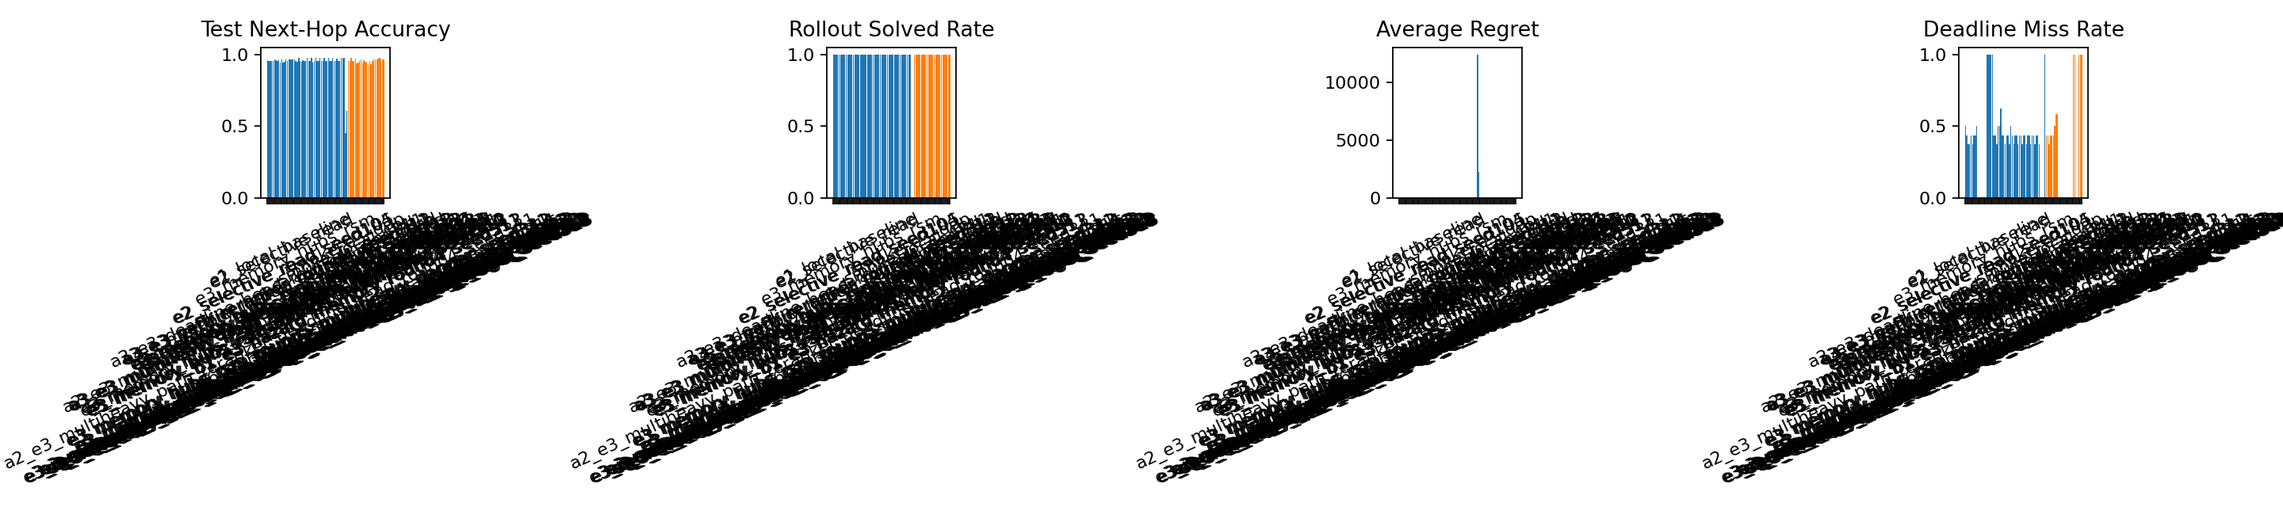
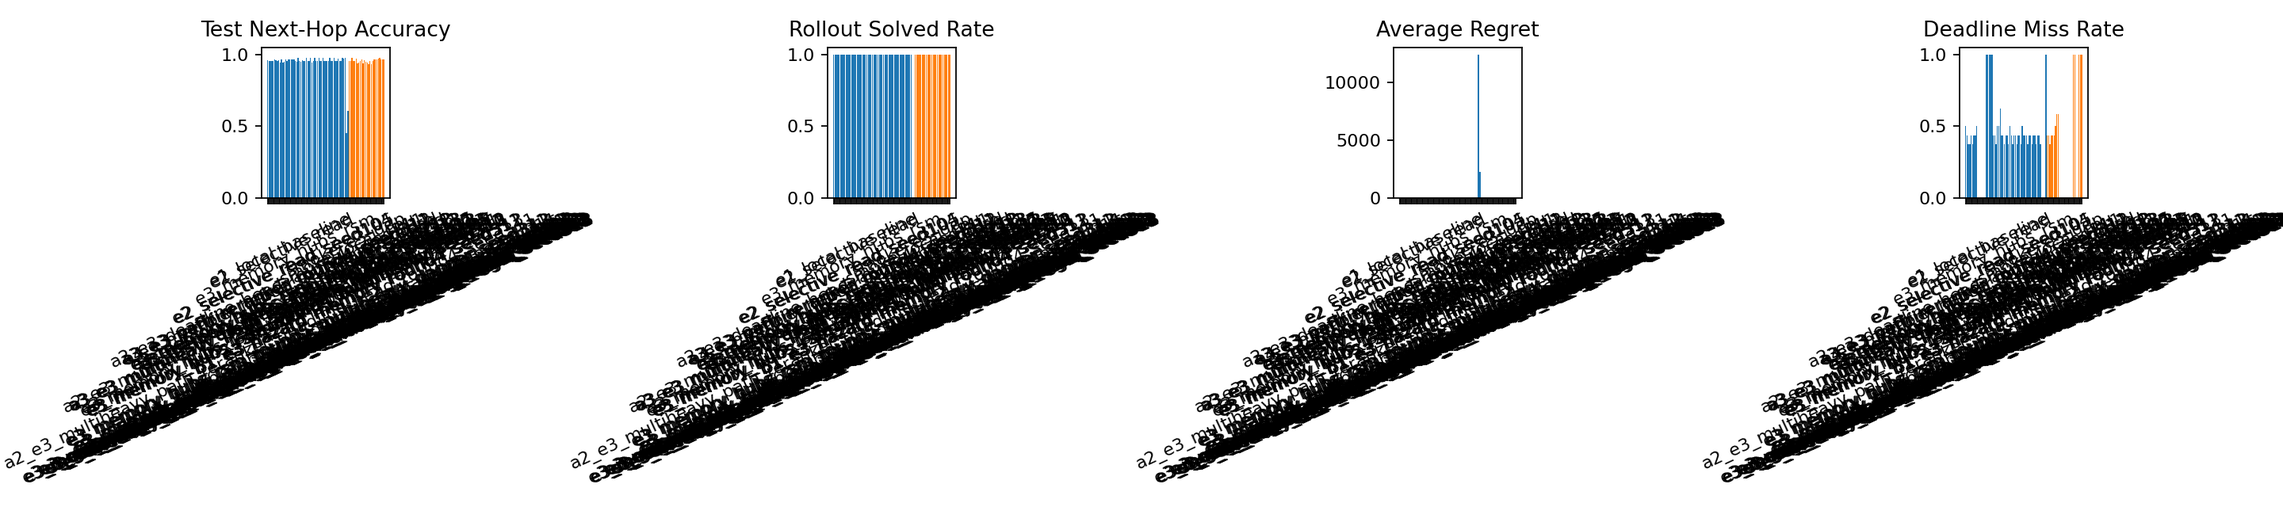
Reject supervised multiheavy path-head coupling

diff --git a/src/gnn3/train/trainer.py b/src/gnn3/train/trainer.py
@@ -142,6 +142,7 @@ def _train_one_epoch(
         "value_loss": 0.0,
         "route_loss": 0.0,
         "selection_soft_target_loss": 0.0,
+        "path_soft_target_loss": 0.0,
         "selection_pairwise_loss": 0.0,
         "selection_feasible_target_loss": 0.0,
         "on_time_loss": 0.0,
@@ -167,6 +168,9 @@ def _train_one_epoch(
                 selection_soft_target_weight=config.train.selection_soft_target_weight,
                 selection_soft_target_temperature=config.train.selection_soft_target_temperature,
                 selection_soft_target_on_time_bonus=config.train.selection_soft_target_on_time_bonus,
+                path_soft_target_weight=config.train.path_soft_target_weight,
+                path_soft_target_temperature=config.train.path_soft_target_temperature,
+                path_soft_target_on_time_bonus=config.train.path_soft_target_on_time_bonus,
                 selection_pairwise_weight=config.train.selection_pairwise_weight,
                 selection_pairwise_temperature=config.train.selection_pairwise_temperature,
                 selection_pairwise_on_time_bonus=config.train.selection_pairwise_on_time_bonus,
@@ -201,6 +205,9 @@ def evaluate_decision_dataset(
     selection_soft_target_weight: float,
     selection_soft_target_temperature: float,
     selection_soft_target_on_time_bonus: float,
+    path_soft_target_weight: float,
+    path_soft_target_temperature: float,
+    path_soft_target_on_time_bonus: float,
     selection_pairwise_weight: float,
     selection_pairwise_temperature: float,
     selection_pairwise_on_time_bonus: float,
@@ -220,6 +227,7 @@ def evaluate_decision_dataset(
         "value_loss": 0.0,
         "route_loss": 0.0,
         "selection_soft_target_loss": 0.0,
+        "path_soft_target_loss": 0.0,
         "selection_pairwise_loss": 0.0,
         "selection_feasible_target_loss": 0.0,
         "on_time_loss": 0.0,
@@ -249,6 +257,9 @@ def evaluate_decision_dataset(
             selection_soft_target_weight=selection_soft_target_weight,
             selection_soft_target_temperature=selection_soft_target_temperature,
             selection_soft_target_on_time_bonus=selection_soft_target_on_time_bonus,
+            path_soft_target_weight=path_soft_target_weight,
+            path_soft_target_temperature=path_soft_target_temperature,
+            path_soft_target_on_time_bonus=path_soft_target_on_time_bonus,
             selection_pairwise_weight=selection_pairwise_weight,
             selection_pairwise_temperature=selection_pairwise_temperature,
             selection_pairwise_on_time_bonus=selection_pairwise_on_time_bonus,
@@ -502,6 +513,9 @@ def train_experiment(config: ExperimentConfig) -> dict[str, Any] | None:
                 selection_soft_target_weight=config.train.selection_soft_target_weight,
                 selection_soft_target_temperature=config.train.selection_soft_target_temperature,
                 selection_soft_target_on_time_bonus=config.train.selection_soft_target_on_time_bonus,
+                path_soft_target_weight=config.train.path_soft_target_weight,
+                path_soft_target_temperature=config.train.path_soft_target_temperature,
+                path_soft_target_on_time_bonus=config.train.path_soft_target_on_time_bonus,
                 selection_pairwise_weight=config.train.selection_pairwise_weight,
                 selection_pairwise_temperature=config.train.selection_pairwise_temperature,
                 selection_pairwise_on_time_bonus=config.train.selection_pairwise_on_time_bonus,
@@ -629,6 +643,9 @@ def train_experiment(config: ExperimentConfig) -> dict[str, Any] | None:
                     selection_soft_target_weight=config.train.selection_soft_target_weight,
                     selection_soft_target_temperature=config.train.selection_soft_target_temperature,
                     selection_soft_target_on_time_bonus=config.train.selection_soft_target_on_time_bonus,
+                    path_soft_target_weight=config.train.path_soft_target_weight,
+                    path_soft_target_temperature=config.train.path_soft_target_temperature,
+                    path_soft_target_on_time_bonus=config.train.path_soft_target_on_time_bonus,
                     selection_pairwise_weight=config.train.selection_pairwise_weight,
                     selection_pairwise_temperature=config.train.selection_pairwise_temperature,
                     selection_pairwise_on_time_bonus=config.train.selection_pairwise_on_time_bonus,
@@ -714,21 +731,24 @@ def train_experiment(config: ExperimentConfig) -> dict[str, Any] | None:
         route_weight=config.train.route_weight,
         deadline_bce_weight=config.train.deadline_bce_weight,
         slack_loss_weight=config.train.slack_loss_weight,
-                quantile_loss_weight=config.train.quantile_loss_weight,
-                selection_soft_target_weight=config.train.selection_soft_target_weight,
-                selection_soft_target_temperature=config.train.selection_soft_target_temperature,
-                selection_soft_target_on_time_bonus=config.train.selection_soft_target_on_time_bonus,
-                selection_pairwise_weight=config.train.selection_pairwise_weight,
-                selection_pairwise_temperature=config.train.selection_pairwise_temperature,
-                selection_pairwise_on_time_bonus=config.train.selection_pairwise_on_time_bonus,
-                selection_pairwise_slack_bonus=config.train.selection_pairwise_slack_bonus,
-                selection_pairwise_margin=config.train.selection_pairwise_margin,
-                selection_feasible_target_weight=config.train.selection_feasible_target_weight,
-                selection_slack_critical_weight=config.train.selection_slack_critical_weight,
-                selection_slack_critical_scale=config.train.selection_slack_critical_scale,
-                quantiles=config.model.quantile_levels,
-                verifier_aux_last_k_steps=config.model.verifier_aux_last_k_steps,
-            )
+        quantile_loss_weight=config.train.quantile_loss_weight,
+        selection_soft_target_weight=config.train.selection_soft_target_weight,
+        selection_soft_target_temperature=config.train.selection_soft_target_temperature,
+        selection_soft_target_on_time_bonus=config.train.selection_soft_target_on_time_bonus,
+        path_soft_target_weight=config.train.path_soft_target_weight,
+        path_soft_target_temperature=config.train.path_soft_target_temperature,
+        path_soft_target_on_time_bonus=config.train.path_soft_target_on_time_bonus,
+        selection_pairwise_weight=config.train.selection_pairwise_weight,
+        selection_pairwise_temperature=config.train.selection_pairwise_temperature,
+        selection_pairwise_on_time_bonus=config.train.selection_pairwise_on_time_bonus,
+        selection_pairwise_slack_bonus=config.train.selection_pairwise_slack_bonus,
+        selection_pairwise_margin=config.train.selection_pairwise_margin,
+        selection_feasible_target_weight=config.train.selection_feasible_target_weight,
+        selection_slack_critical_weight=config.train.selection_slack_critical_weight,
+        selection_slack_critical_scale=config.train.selection_slack_critical_scale,
+        quantiles=config.model.quantile_levels,
+        verifier_aux_last_k_steps=config.model.verifier_aux_last_k_steps,
+    )
     test_rollout = evaluate_rollouts(
         eval_model,
         test_dataset.episodes[: config.train.rollout_eval_episodes],

diff --git a/src/gnn3/models/packet_mamba.py b/src/gnn3/models/packet_mamba.py
@@ -865,6 +865,27 @@ def _selection_soft_target_loss(
     return -(target_probs * log_probs).sum(dim=-1).mean()
 
 
+def _path_soft_target_loss(
+    *,
+    path_scores: torch.Tensor,
+    batch: dict[str, torch.Tensor],
+    temperature: float,
+    on_time_bonus: float,
+) -> torch.Tensor:
+    valid_mask = batch["candidate_mask"] & batch["node_mask"]
+    if not valid_mask.any():
+        return path_scores.new_tensor(0.0)
+    temperature = max(float(temperature), 1e-3)
+    target_logits = -batch["candidate_cost_to_go"] / temperature
+    if on_time_bonus != 0.0:
+        target_logits = target_logits + on_time_bonus * batch["candidate_on_time"]
+    target_logits = target_logits.masked_fill(~valid_mask, float("-inf"))
+    target_probs = torch.softmax(target_logits, dim=-1)
+    masked_path_scores = path_scores.masked_fill(~valid_mask, -1e9)
+    log_probs = torch.log_softmax(masked_path_scores, dim=-1)
+    return -(target_probs * log_probs).sum(dim=-1).mean()
+
+
 def _selection_pairwise_ranking_loss(
     *,
     selection_scores: torch.Tensor,
@@ -926,6 +947,9 @@ def compute_losses(
     selection_soft_target_weight: float = 0.0,
     selection_soft_target_temperature: float = 1.0,
     selection_soft_target_on_time_bonus: float = 0.0,
+    path_soft_target_weight: float = 0.0,
+    path_soft_target_temperature: float = 1.0,
+    path_soft_target_on_time_bonus: float = 0.0,
     selection_pairwise_weight: float = 0.0,
     selection_pairwise_temperature: float = 1.0,
     selection_pairwise_on_time_bonus: float = 0.0,
@@ -966,6 +990,7 @@ def compute_losses(
     route_targets = batch["route_relevance"][batch["node_mask"]]
     route_loss = F.binary_cross_entropy_with_logits(route_logits, route_targets)
     selection_soft_target_loss = output["selection_scores"].new_tensor(0.0)
+    path_soft_target_loss = output["selection_scores"].new_tensor(0.0)
     selection_pairwise_loss = output["selection_scores"].new_tensor(0.0)
     on_time_loss = output["selection_scores"].new_tensor(0.0)
     slack_loss = output["selection_scores"].new_tensor(0.0)
@@ -976,6 +1001,13 @@ def compute_losses(
             batch=batch,
             temperature=selection_soft_target_temperature,
             on_time_bonus=selection_soft_target_on_time_bonus,
+        )
+    if path_soft_target_weight > 0.0 and output.get("path_scores") is not None:
+        path_soft_target_loss = _path_soft_target_loss(
+            path_scores=output["path_scores"],
+            batch=batch,
+            temperature=path_soft_target_temperature,
+            on_time_bonus=path_soft_target_on_time_bonus,
         )
     if selection_pairwise_weight > 0.0:
         selection_pairwise_loss = _selection_pairwise_ranking_loss(
@@ -1026,6 +1058,7 @@ def compute_losses(
         + value_weight * value_loss
         + route_weight * route_loss
         + selection_soft_target_weight * selection_soft_target_loss
+        + path_soft_target_weight * path_soft_target_loss
         + selection_pairwise_weight * selection_pairwise_loss
         + selection_feasible_target_weight * feasible_target_loss
         + deadline_bce_weight * on_time_loss
@@ -1041,6 +1074,7 @@ def compute_losses(
         "value_loss": value_loss.detach(),
         "route_loss": route_loss.detach(),
         "selection_soft_target_loss": selection_soft_target_loss.detach(),
+        "path_soft_target_loss": path_soft_target_loss.detach(),
         "selection_pairwise_loss": selection_pairwise_loss.detach(),
         "selection_feasible_target_loss": feasible_target_loss.detach(),
         "on_time_loss": on_time_loss.detach(),

diff --git a/tests/test_loss_coupling.py b/tests/test_loss_coupling.py
@@ -27,6 +27,7 @@ def _batch_with_slack(candidate_slack: torch.Tensor) -> dict[str, torch.Tensor]:
 def _output(selection_scores: torch.Tensor) -> dict[str, torch.Tensor]:
     return {
         "selection_scores": selection_scores,
+        "path_scores": selection_scores.clone(),
         "values": torch.tensor([1.0], dtype=torch.float32),
         "route_logits": torch.tensor([[2.0, 2.0, -2.0]], dtype=torch.float32),
         "candidate_on_time_logits": None,
@@ -83,6 +84,28 @@ def test_selection_pairwise_loss_prefers_feasible_low_cost_rankings() -> None:
         selection_pairwise_margin=0.5,
     )
     assert float(better["selection_pairwise_loss"]) < float(worse["selection_pairwise_loss"])
+    assert float(better["loss"]) < float(worse["loss"])
+
+
+def test_path_soft_target_loss_prefers_feasible_low_cost_paths() -> None:
+    batch = _batch()
+    better = compute_losses(
+        _output(torch.tensor([[3.0, 2.0, -1.0]], dtype=torch.float32)),
+        batch,
+        final_step_only=True,
+        path_soft_target_weight=1.0,
+        path_soft_target_temperature=0.5,
+        path_soft_target_on_time_bonus=1.0,
+    )
+    worse = compute_losses(
+        _output(torch.tensor([[-1.0, 0.0, 3.0]], dtype=torch.float32)),
+        batch,
+        final_step_only=True,
+        path_soft_target_weight=1.0,
+        path_soft_target_temperature=0.5,
+        path_soft_target_on_time_bonus=1.0,
+    )
+    assert float(better["path_soft_target_loss"]) < float(worse["path_soft_target_loss"])
     assert float(better["loss"]) < float(worse["loss"])
 
 

diff --git a/scripts/plot_round5_results.py b/scripts/plot_round5_results.py
@@ -180,6 +180,16 @@ def main() -> None:
     dagger.to_csv(PLOTS / "round5_multiheavy_dagger_vs_multiheavy.csv", index=False)
     _plot_compare(dagger, "round5_multiheavy_dagger_vs_multiheavy.png", "DAgger")
 
+    pathhead = _summary_frame(
+        [
+            (311, "e3_memory_hubs_rsm_round4_multiheavy_seed311", "e3_memory_hubs_rsm_round5_multiheavy_pathhead_seed311"),
+            (312, "e3_memory_hubs_rsm_round4_multiheavy_seed312", "e3_memory_hubs_rsm_round5_multiheavy_pathhead_seed312"),
+        ],
+        "PathHead",
+    )
+    pathhead.to_csv(PLOTS / "round5_multiheavy_pathhead_vs_multiheavy.csv", index=False)
+    _plot_compare(pathhead, "round5_multiheavy_pathhead_vs_multiheavy.png", "PathHead")
+
 
 if __name__ == "__main__":
     main()

diff --git a/src/gnn3/train/config.py b/src/gnn3/train/config.py
@@ -54,6 +54,9 @@ class TrainConfig:
     selection_soft_target_weight: float = 0.0
     selection_soft_target_temperature: float = 1.0
     selection_soft_target_on_time_bonus: float = 0.0
+    path_soft_target_weight: float = 0.0
+    path_soft_target_temperature: float = 1.0
+    path_soft_target_on_time_bonus: float = 0.0
     selection_pairwise_weight: float = 0.0
     selection_pairwise_temperature: float = 1.0
     selection_pairwise_on_time_bonus: float = 0.0

diff --git a/reports/continuation_report_round5.md b/reports/continuation_report_round5.md
@@ -2,7 +2,7 @@
 
 ## Scope
 
-This pass tested nine bounded non-reranker exploit changes on top of the robust plain `multiheavy` recipe:
+This pass tested ten bounded exploit changes on top of the robust plain `multiheavy` recipe: nine non-reranker tweaks plus one integrated candidate-path scout that was killed after two seeds.
 
 1. risk-biased checkpoint selection
 2. tighter training-only oracle-calibrated deadlines with fixed validation and test manifests
@@ -13,6 +13,7 @@ This pass tested nine bounded non-reranker exploit changes on top of the robust 
 7. feasible-first hard target supervision when an on-time candidate exists
 8. slack-critical weighting on the main next-hop CE
 9. bounded DAgger-style state-refresh finetuning on oracle-relabeled model-visited train states
+10. supervised traffic-gated candidate-path scoring on the existing integrated path head
 
 Key artifacts:
 
@@ -34,6 +35,8 @@ Key artifacts:
 - [round5_multiheavy_slack_weight_vs_multiheavy.png](/home/catid/gnn3/reports/plots/round5_multiheavy_slack_weight_vs_multiheavy.png)
 - [round5_multiheavy_dagger_vs_multiheavy.csv](/home/catid/gnn3/reports/plots/round5_multiheavy_dagger_vs_multiheavy.csv)
 - [round5_multiheavy_dagger_vs_multiheavy.png](/home/catid/gnn3/reports/plots/round5_multiheavy_dagger_vs_multiheavy.png)
+- [round5_multiheavy_pathhead_vs_multiheavy.csv](/home/catid/gnn3/reports/plots/round5_multiheavy_pathhead_vs_multiheavy.csv)
+- [round5_multiheavy_pathhead_vs_multiheavy.png](/home/catid/gnn3/reports/plots/round5_multiheavy_pathhead_vs_multiheavy.png)
 - [experiment_summary.csv](/home/catid/gnn3/reports/plots/experiment_summary.csv)
 
 Implementation changes:
@@ -48,6 +51,7 @@ Implementation changes:
 - bounded DAgger refresh knobs in [config.py](/home/catid/gnn3/src/gnn3/train/config.py)
 - oracle relabel collection for model-visited train states in [rollout.py](/home/catid/gnn3/src/gnn3/eval/rollout.py)
 - bounded DAgger finetune loop in [trainer.py](/home/catid/gnn3/src/gnn3/train/trainer.py)
+- supervised path-head soft-target loss in [packet_mamba.py](/home/catid/gnn3/src/gnn3/models/packet_mamba.py)
 - matched round-five configs in [e3_memory_hubs_rsm_round5_multiheavy_tail_select_seed311.yaml](/home/catid/gnn3/configs/experiments/e3_memory_hubs_rsm_round5_multiheavy_tail_select_seed311.yaml), [e3_memory_hubs_rsm_round5_multiheavy_tail_select_seed312.yaml](/home/catid/gnn3/configs/experiments/e3_memory_hubs_rsm_round5_multiheavy_tail_select_seed312.yaml), and [e3_memory_hubs_rsm_round5_multiheavy_tail_select_seed313.yaml](/home/catid/gnn3/configs/experiments/e3_memory_hubs_rsm_round5_multiheavy_tail_select_seed313.yaml)
 - matched tighter-train configs in [e3_memory_hubs_rsm_round5_multiheavy_tighttrain_seed311.yaml](/home/catid/gnn3/configs/experiments/e3_memory_hubs_rsm_round5_multiheavy_tighttrain_seed311.yaml), [e3_memory_hubs_rsm_round5_multiheavy_tighttrain_seed312.yaml](/home/catid/gnn3/configs/experiments/e3_memory_hubs_rsm_round5_multiheavy_tighttrain_seed312.yaml), and [e3_memory_hubs_rsm_round5_multiheavy_tighttrain_seed313.yaml](/home/catid/gnn3/configs/experiments/e3_memory_hubs_rsm_round5_multiheavy_tighttrain_seed313.yaml)
 - matched packets6-train configs in [e3_memory_hubs_rsm_round5_multiheavy_packets6_train_seed311.yaml](/home/catid/gnn3/configs/experiments/e3_memory_hubs_rsm_round5_multiheavy_packets6_train_seed311.yaml), [e3_memory_hubs_rsm_round5_multiheavy_packets6_train_seed312.yaml](/home/catid/gnn3/configs/experiments/e3_memory_hubs_rsm_round5_multiheavy_packets6_train_seed312.yaml), and [e3_memory_hubs_rsm_round5_multiheavy_packets6_train_seed313.yaml](/home/catid/gnn3/configs/experiments/e3_memory_hubs_rsm_round5_multiheavy_packets6_train_seed313.yaml)
@@ -57,10 +61,11 @@ Implementation changes:
 - matched feasible-target configs in [e3_memory_hubs_rsm_round5_multiheavy_feasible_target_seed311.yaml](/home/catid/gnn3/configs/experiments/e3_memory_hubs_rsm_round5_multiheavy_feasible_target_seed311.yaml), [e3_memory_hubs_rsm_round5_multiheavy_feasible_target_seed312.yaml](/home/catid/gnn3/configs/experiments/e3_memory_hubs_rsm_round5_multiheavy_feasible_target_seed312.yaml), and [e3_memory_hubs_rsm_round5_multiheavy_feasible_target_seed313.yaml](/home/catid/gnn3/configs/experiments/e3_memory_hubs_rsm_round5_multiheavy_feasible_target_seed313.yaml)
 - matched slack-weight configs in [e3_memory_hubs_rsm_round5_multiheavy_slack_weight_seed311.yaml](/home/catid/gnn3/configs/experiments/e3_memory_hubs_rsm_round5_multiheavy_slack_weight_seed311.yaml), [e3_memory_hubs_rsm_round5_multiheavy_slack_weight_seed312.yaml](/home/catid/gnn3/configs/experiments/e3_memory_hubs_rsm_round5_multiheavy_slack_weight_seed312.yaml), and [e3_memory_hubs_rsm_round5_multiheavy_slack_weight_seed313.yaml](/home/catid/gnn3/configs/experiments/e3_memory_hubs_rsm_round5_multiheavy_slack_weight_seed313.yaml)
 - matched DAgger-refresh configs in [e3_memory_hubs_rsm_round5_multiheavy_dagger_seed311.yaml](/home/catid/gnn3/configs/experiments/e3_memory_hubs_rsm_round5_multiheavy_dagger_seed311.yaml), [e3_memory_hubs_rsm_round5_multiheavy_dagger_seed312.yaml](/home/catid/gnn3/configs/experiments/e3_memory_hubs_rsm_round5_multiheavy_dagger_seed312.yaml), and [e3_memory_hubs_rsm_round5_multiheavy_dagger_seed313.yaml](/home/catid/gnn3/configs/experiments/e3_memory_hubs_rsm_round5_multiheavy_dagger_seed313.yaml)
+- killed-early path-head scout configs in [e3_memory_hubs_rsm_round5_multiheavy_pathhead_seed311.yaml](/home/catid/gnn3/configs/experiments/e3_memory_hubs_rsm_round5_multiheavy_pathhead_seed311.yaml) and [e3_memory_hubs_rsm_round5_multiheavy_pathhead_seed312.yaml](/home/catid/gnn3/configs/experiments/e3_memory_hubs_rsm_round5_multiheavy_pathhead_seed312.yaml)
 - selection regression tests in [test_trainer_selection.py](/home/catid/gnn3/tests/test_trainer_selection.py)
 - split-override regression coverage in [test_config_split_overrides.py](/home/catid/gnn3/tests/test_config_split_overrides.py)
 - critical-sampling and DAgger-refresh regression coverage in [test_train_sampling.py](/home/catid/gnn3/tests/test_train_sampling.py)
-- soft-target loss regression coverage in [test_loss_coupling.py](/home/catid/gnn3/tests/test_loss_coupling.py)
+- soft-target and path-head loss regression coverage in [test_loss_coupling.py](/home/catid/gnn3/tests/test_loss_coupling.py)
 
 ## Matched Result
 
@@ -314,9 +319,35 @@ What did not change:
 - no matched-seed gain appeared in regret, p95 regret, deadline miss rate, or rollout next-hop accuracy
 - the extra state-refresh supervision raised static test next-hop accuracy slightly, but that did not translate into a different rollout policy
 
+## Integrated Candidate-Path Head Scout
+
+Killed-after-two-seeds comparison against the same plain `multiheavy` baseline, using the existing traffic-gated `path_reranker_head` inside the model plus a direct soft-target loss on `path_scores`:
+
+- multiheavy mean next-hop accuracy on seeds `311/312`: `94.98%`
+- path-head mean next-hop accuracy on seeds `311/312`: `95.40%`
+- multiheavy mean rollout next-hop accuracy on seeds `311/312`: `94.85%`
+- path-head mean rollout next-hop accuracy on seeds `311/312`: `94.63%`
+- multiheavy mean regret on seeds `311/312`: `1.71`
+- path-head mean regret on seeds `311/312`: `1.80`
+- multiheavy mean p95 regret on seeds `311/312`: `5.70`
+- path-head mean p95 regret on seeds `311/312`: `6.58`
+- multiheavy mean deadline miss rate on seeds `311/312`: `43.8%`
+- path-head mean deadline miss rate on seeds `311/312`: `46.9%`
+
+What changed:
+
+- the model carried a live `path_soft_target_loss` on both seeds, around `0.61` to `0.65` at test time
+- seed `312` stayed exactly on the plain `multiheavy` held-out rollout while slightly improving static test next-hop accuracy
+- seed `311` regressed on held-out rollout: regret `1.69` vs `1.50`, p95 `7.71` vs `5.96`, miss `50.0%` vs `43.8%`
+
+What did not change:
+
+- the scout did not beat plain `multiheavy` on any matched rollout metric across the first two seeds
+- the stronger path-level supervision still did not produce a trustworthy exploit gain, so the branch was killed before seed `313`
+
 ## Decision
 
-All nine round-five exploit changes are clean negatives.
+All ten round-five exploit changes are negatives. Nine reached the full matched three-seed bar, and the integrated path-head scout was killed early after two seeds because it already trailed plain `multiheavy` on held-out rollout.
 
 Checkpoint-selection policy alone is not the next leverage point for this repo. Tightening the training-only deadline contract also is not enough on its own. Both changes moved internal training behavior, but neither changed the actual held-out rollout once the current plain `multiheavy` model had trained.
 Deadline-aware soft action targets also are not enough on their own. They changed selected checkpoints and introduced a stable auxiliary loss, but they still did not move held-out rollout quality.
@@ -325,6 +356,7 @@ Feasible-first hard-target supervision is also not enough on its own. It changed
 Slack-critical CE weighting is also not enough on its own. It emphasized deadline-sensitive decisions directly in the main loss, but the matched held-out rollout still converged back to plain `multiheavy`.
 Critical-decision oversampling is also not enough on its own. It changed train-time replay pressure much more strongly than the loss-only tweaks, but the matched held-out rollout still converged back to plain `multiheavy`.
 Bounded DAgger state refresh is also not enough on its own. It changed the supervised state distribution much more directly than the earlier train-only tweaks, but even after `1,027` oracle-relabeled model-visited refresh decisions, the matched held-out rollout still converged back to plain `multiheavy`.
+Supervised path-head coupling is also not enough on its own. It moved path-level supervision into the existing integrated candidate-path head, but the first two matched seeds still underperformed plain `multiheavy` on held-out rollout, so the branch was killed before a third seed.
 
 ## Feasible-First Oracle-Policy Note
 
@@ -342,5 +374,6 @@ Updated recommendation:
 8. Do not spend another cycle on feasible-first hard targets alone; they changed the supervised choice directly but still failed to improve the matched held-out rollout.
 9. Do not spend another cycle on slack-critical CE weighting alone; it changed decision pressure inside the main loss, but the matched held-out rollout still stayed flat.
 10. Do not spend another cycle on bounded DAgger refresh alone; it changed the supervised state distribution directly, but the matched held-out rollout still stayed flat.
-11. Do not open a separate train-only feasible-first oracle-policy branch under the current cost/deadline contract; it is equivalent to the existing oracle except for tie cases.
-12. If exploit work continues, the next lever must change the learned policy more materially than checkpoint ranking, train-distribution tightening, packet-cap widening, critical-decision oversampling, soft candidate coupling, pairwise ranking, feasible-first hard targets, slack-critical CE weighting, or bounded DAgger refresh alone.
+11. Do not spend another cycle on supervised path-head coupling alone; the first two matched seeds already trailed plain `multiheavy` on held-out rollout.
+12. Do not open a separate train-only feasible-first oracle-policy branch under the current cost/deadline contract; it is equivalent to the existing oracle except for tie cases.
+13. If exploit work continues, the next lever must change the learned policy more materially than checkpoint ranking, train-distribution tightening, packet-cap widening, critical-decision oversampling, soft candidate coupling, pairwise ranking, feasible-first hard targets, slack-critical CE weighting, bounded DAgger refresh, or supervised path-head coupling alone.

diff --git a/reports/next_best_actions.md b/reports/next_best_actions.md
@@ -15,8 +15,9 @@
 13. Do not spend another cycle on feasible-first hard targets alone. The matched three-seed feasible-target scout changed the supervised choice directly, but the held-out rollout slightly worsened overall versus plain multiheavy.
 14. Do not spend another cycle on slack-critical CE weighting alone. The matched three-seed slack-weight scout changed the main loss pressure directly, but every held-out rollout still matched plain multiheavy exactly.
 15. Do not spend another cycle on bounded DAgger state refresh alone. The matched three-seed DAgger scout relabeled 1,027 model-visited train decisions and ran two extra finetune epochs per seed, but every held-out rollout still matched plain multiheavy exactly.
-16. Do not open a separate train-only feasible-first oracle-policy branch under the current cost/deadline contract. The oracle already minimizes the same cumulative `_edge_cost` that defines on-time feasibility, so a feasible-first rollout would only differ on exact ties.
-17. The next highest-value batch is:
+16. Do not spend another cycle on supervised path-head coupling alone. The first two matched seeds carried a live `path_soft_target_loss`, but one seed regressed on held-out rollout and the other merely matched baseline, so the branch was killed before a third seed.
+17. Do not open a separate train-only feasible-first oracle-policy branch under the current cost/deadline contract. The oracle already minimizes the same cumulative `_edge_cost` that defines on-time feasibility, so a feasible-first rollout would only differ on exact ties.
+18. The next highest-value batch is:
    first, keep plain multiheavy as the exploit default;
-   second, stop testing new train-only weighting, oversampling, or bounded state-refresh variants that leave the model architecture and per-decision contract unchanged;
+   second, stop testing new train-only weighting, oversampling, bounded state-refresh, or lightly supervised path-head variants that leave the actual deployment contract effectively unchanged;
    third, revisit auxiliary heads only if they move held-out rollout on plain multiheavy rather than calibration metrics alone.

diff --git a/reports/portfolio_balance.md b/reports/portfolio_balance.md
@@ -58,14 +58,15 @@
 | A12-R5-feasible-oracle-policy | exploit | Check whether a separate train-only feasible-first oracle rollout is a distinct exploit lever before spending GPU time on it. | 0.00 | 0.0000 | scoped-out | No run needed: under the current benchmark contract, on-time feasibility is defined by the same cumulative `_edge_cost` already minimized by the oracle, so feasible-first is equivalent to cost-first except for tie cases. |
 | A13-R5-critical-sampling | exploit | Test whether train-only decision-level oversampling toward low-slack, infeasible, and higher-packet decisions can move plain multiheavy held-out rollout. | 0.44 | 0.4070 | completed | Negative matched 3-seed result: mean train sample weight rose to about 1.83x with 4.0x max clipping, but all held-out rollout metrics still matched plain multiheavy exactly. |
 | A14-R5-dagger-refresh | exploit | Test whether bounded DAgger-style state refresh on oracle-relabeled model-visited train states can move plain multiheavy held-out rollout. | 0.36 | 0.3393 | completed | Negative matched 3-seed result: 1,027 refresh decisions and two DAgger finetune epochs per seed still left all held-out rollout metrics identical to plain multiheavy. |
+| A15-R5-pathhead | exploit | Test whether direct soft-target supervision on the integrated traffic-gated path head can move plain multiheavy held-out rollout. | 0.18 | 0.1426 | killed-early | Negative 2-seed scout: seed312 matched baseline and seed311 regressed, so mean regret rose from 1.71 to 1.80 and mean miss from 43.8% to 46.9%. |
 
 Current cumulative GPU-hours:
 
 - Round-four-plus-follow-up exploit: `1.8310`
 - Round-four-plus-follow-up explore: `0.8678`
 - Round-four-plus-follow-up split: `67.8% / 32.2%`
-- Round-five exploit-only batch: `2.7557`
+- Round-five exploit-only batch: `2.8983`
 - Round-five split: `100.0% / 0.0%`
-- Overall exploit: `5.8554`
+- Overall exploit: `5.9980`
 - Overall explore: `2.0475`
-- Overall split: `74.1% / 25.9%`
+- Overall split: `74.6% / 25.4%`
